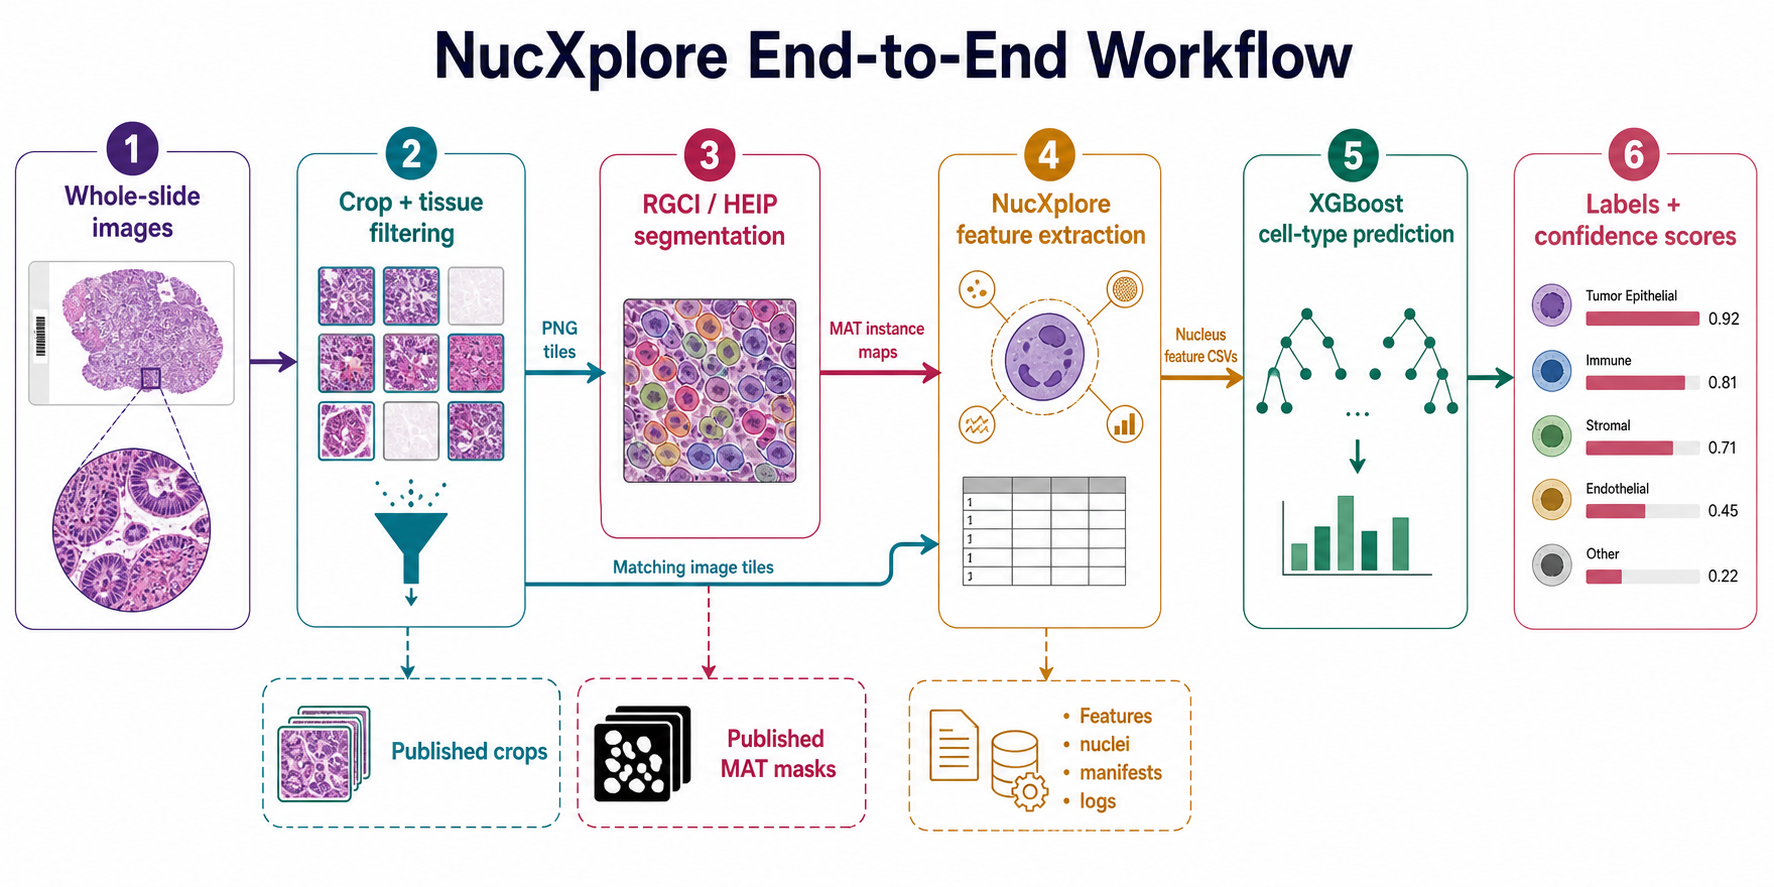
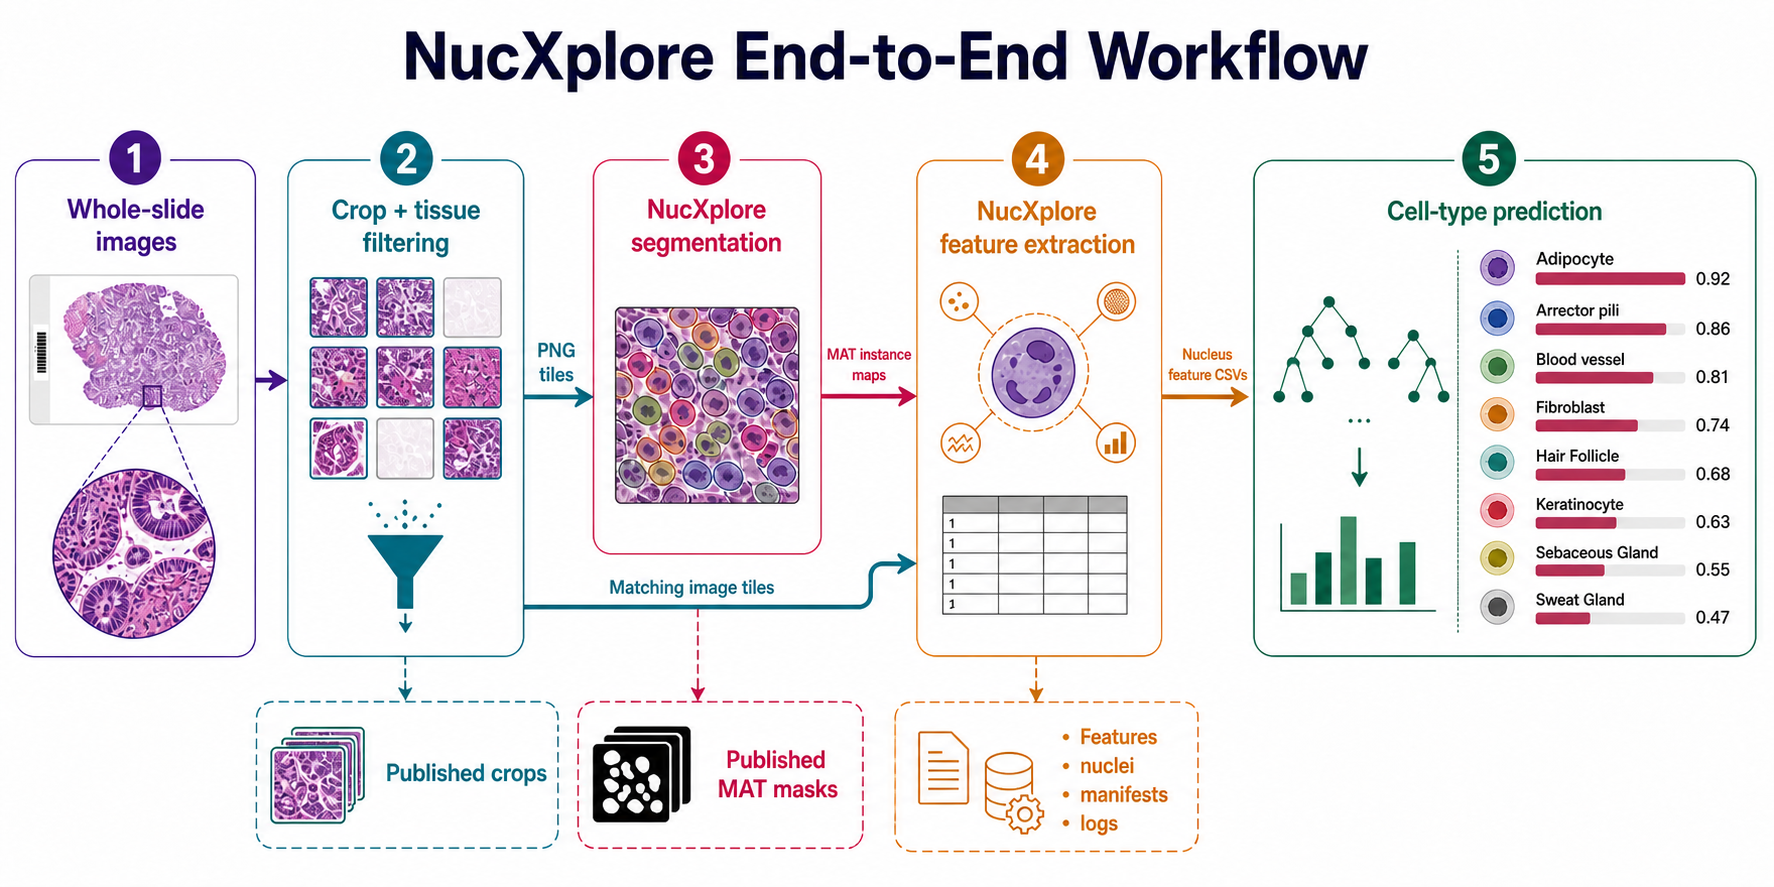
fix(pipeline)!: align names and labels
BREAKING CHANGE: the segmentation executable is now named nucxplore_seg_to_mat.py; update direct container invocations.

diff --git a/nucxplore-pipeline/tests/test_pipeline_contract.py b/nucxplore-pipeline/tests/test_pipeline_contract.py
@@ -66,9 +66,9 @@ def test_crop_and_filter_empty_input_returns_nonzero(tmp_path: Path) -> None:
     assert out_dir.exists()
 
 
-def test_rgci_seg_empty_input_returns_nonzero(tmp_path: Path) -> None:
+def test_nucxplore_seg_empty_input_returns_nonzero(tmp_path: Path) -> None:
     repo = Path(__file__).resolve().parents[1]
-    script = str(repo / "bin" / "rgci_seg_to_mat.py")
+    script = str(repo / "bin" / "nucxplore_seg_to_mat.py")
     empty_crop = tmp_path / "no_crops"
     empty_crop.mkdir()
     out_dir = tmp_path / "seg_out"
@@ -87,9 +87,9 @@ def test_rgci_seg_empty_input_returns_nonzero(tmp_path: Path) -> None:
     assert out_dir.exists()
 
 
-def test_rgci_seg_empty_input_does_not_load_model(tmp_path: Path) -> None:
+def test_nucxplore_seg_empty_input_does_not_load_model(tmp_path: Path) -> None:
     repo = Path(__file__).resolve().parents[1]
-    script = str(repo / "bin" / "rgci_seg_to_mat.py")
+    script = str(repo / "bin" / "nucxplore_seg_to_mat.py")
     empty_crop = tmp_path / "no_crops2"
     empty_crop.mkdir()
     out_dir = tmp_path / "seg_out2"
@@ -112,14 +112,14 @@ def test_rgci_seg_empty_input_does_not_load_model(tmp_path: Path) -> None:
     assert out_dir.exists()
 
 
-def test_rgci_seg_nextflow_gpu_and_cleanup_contract() -> None:
+def test_nucxplore_seg_nextflow_gpu_and_cleanup_contract() -> None:
     repo = Path(__file__).resolve().parents[1]
     main_nf = (repo / "main.nf").read_text()
 
     assert "process NUCXPLORE_SEG" in main_nf
     assert "accelerator request:" in main_nf
     assert "params.seg_device == 'cuda'" in main_nf
-    assert "exec rgci_seg_to_mat.py" in main_nf
+    assert "exec nucxplore_seg_to_mat.py" in main_nf
 
 
 def test_nextflow_cli_boolean_flags_are_parsed_explicitly() -> None:

diff --git a/nucxplore-pipeline/bin/nucxplore_seg_to_mat.py b/nucxplore-pipeline/bin/nucxplore_seg_to_mat.py
@@ -1,8 +1,8 @@
 #!/usr/bin/env python3
-"""RGCI/HEIP segmentation — produce NucXplore-compatible MAT masks from crop tiles.
+"""NucXplore segmentation — produce NucXplore-compatible MAT masks from crop tiles.
 
-Replaces the RGCI_Seg_HEIP.ipynb cells with a deterministic CLI.  Uses the
-HEIP SlidingWindowInferer without save_format so it writes ``inst_map`` and
+Replaces the legacy segmentation notebook cells with a deterministic CLI. Uses
+the HEIP SlidingWindowInferer without save_format so it writes ``inst_map`` and
 ``inst_type`` to .mat files that NucXplore can consume directly.
 """
 
@@ -16,7 +16,7 @@ import time
 from pathlib import Path
 from typing import Any, Dict, List, Optional
 
-logger = logging.getLogger("rgci_seg")
+logger = logging.getLogger("nucxplore_seg")
 
 
 def discover_crop_folders(crop_root: Path) -> List[Path]:
@@ -80,7 +80,7 @@ def run_inference(
     output_root.mkdir(parents=True, exist_ok=True)
 
     manifest: Dict[str, Any] = {
-        "tool": "rgci_seg",
+        "tool": "nucxplore_seg",
         "args": {
             "crop_root": str(crop_root),
             "output_root": str(output_root),
@@ -173,7 +173,7 @@ def run_inference(
 
 def main(argv: Optional[List[str]] = None) -> int:
     parser = argparse.ArgumentParser(
-        description="RGCI/HEIP segmentation — produce NucXplore-compatible MAT masks from crop tiles."
+        description="NucXplore segmentation — produce NucXplore-compatible MAT masks from crop tiles."
     )
     parser.add_argument(
         "--crop-root",

diff --git a/nucxplore-pipeline/tests/test_cell_type_predict.py b/nucxplore-pipeline/tests/test_cell_type_predict.py
@@ -116,10 +116,10 @@ def test_replacement_artifacts_have_expected_contract() -> None:
     ) == 46
     assert list(encoder.classes_) == [
         "Adipocyte",
-        "Arrector Pili",
-        "Blood Vessel",
+        "Arrector pili",
+        "Blood vessel",
         "Fibroblast",
-        "Hair Folicle",
+        "Hair Follicle",
         "Keratinocyte",
         "Sebaceous Gland",
         "Sweat Gland",

diff --git a/nucxplore-pipeline/CHANGELOG.md b/nucxplore-pipeline/CHANGELOG.md
@@ -9,6 +9,13 @@ Use short, telegraphic style:
 
 One entry per task.
 
+## 2026-08-15 — standardize segmentation name and prediction labels
+
+rename segmentation CLI and contracts to NucXplore; correct eight label-encoder class names without changing class order; refresh workflow diagrams
+Files/Modules: segmentation CLI/Dockerfile/Nextflow/tests, prediction encoder/manifest/tests, pipeline docs and diagrams
+Impact: runtime identifiers and output labels match current product terminology and documented prediction classes
+Reason: remove legacy naming and fix capitalization/spelling at the prediction artifact boundary
+
 ## 2026-08-14 — remove obsolete crop-filter image path
 
 stop building unused crop-filter container; remove stale Dockerfile; document two-image runtime, hosted repository, mandatory normalization, current model manifest, and CI gates
@@ -18,10 +25,10 @@ Reason: eliminate dead deployment surface and conflicting operational instructio
 
 ## 2026-08-14 — rename segmentation image
 
-rename segmentation Dockerfile, environment, process, defaults, test placeholders, and image tag from `nucxplore-rgci-seg` to `nucxplore-seg`
+rename segmentation Dockerfile, environment, process, defaults, test placeholders, and image tag to `nucxplore-seg`
 Files/Modules: segmentation Docker assets, Nextflow configuration/workflow, build/run scripts, tests, docs
 Impact: build and run `ahujalab/nucxplore-seg:latest`; old image name is no longer referenced by active configuration
-Reason: use product-level image naming while retaining RGCI/HEIP as implementation detail
+Reason: use product-level image naming while retaining NucXplore as implementation detail
 
 ## 2026-08-14 — replace cell-type prediction artifacts
 
@@ -60,7 +67,7 @@ Reason: per-tile granularity for better parallelism and fault isolation
 
 ## 2026-05-14 — conda env for crop/features, per-slide parallelism, engine profiles
 
-move CROP_AND_FILTER and EXTRACT_FEATURES from Docker to `nucxplore-local` conda env; per-slide parallel crop via `--slide-path`; add `maxForks 1` to RGCI_SEG and PREDICT_CELL_TYPES; replace `conf/docker.config` with `conf/containers.config` for multi-engine support; add apptainer/singularity profiles; remove `crop_filter_container` param
+move CROP_AND_FILTER and EXTRACT_FEATURES from Docker to `nucxplore-local` conda env; per-slide parallel crop via `--slide-path`; add `maxForks 1` to NUCXPLORE_SEG and PREDICT_CELL_TYPES; replace `conf/docker.config` with `conf/containers.config` for multi-engine support; add apptainer/singularity profiles; remove `crop_filter_container` param
 Files/Modules: `environment.yml` (new), `bin/crop_and_filter.py`, `main.nf`, `nextflow.config`, `conf/containers.config` (new), `conf/docker.config` (deleted), `tests/run_stub_pipeline_checks.sh`, `params.example.yaml`, `CHANGELOG.md`
 Impact: users must create `nucxplore-local` conda env; `--crop_filter_container` removed; crop runs locally; `-profile apptainer|singularity` now available
 Reason: large Docker overhead for CPU-only stages; per-slide parallelism improves crop throughput; sequential seg+pred avoids GPU/ML resource contention
@@ -116,7 +123,7 @@ Reason: align Nextflow container names with locally built images and Docker pull
 
 ## 2026-05-08 — fix SEG GPU declaration and cancellation
 
-declare RGCI_SEG accelerator resource and exec segmentation CLI from task script
+declare NUCXPLORE_SEG accelerator resource and exec segmentation CLI from task script
 Files/Modules: `main.nf`, `tests/test_pipeline_contract.py`, `CHANGELOG.md`
 Impact: segmentation-only and crop-to-segmentation pipeline users
 Reason: make CUDA scheduling intent visible to Nextflow and reduce orphaned Python processes after cancellation
@@ -158,8 +165,8 @@ Reason: align all identifiers with current project name without changing extract
 
 ## 2026-05-05 — stabilize local Docker images
 
-pin feature/prediction deps, rebuild crop/filter deps, and switch RGCI/HEIP image to micromamba Python 3.9 env
-Files/Modules: `Dockerfile`, `Dockerfile.crop-filter`, `Dockerfile.rgci-seg`, `envs/rgci-seg.yml`, `conf/docker.config`, `main.nf`, `nextflow.config`, `.dockerignore`, `../.dockerignore`, `../HEIP/HEIP/src/unet.py`
+pin feature/prediction deps, rebuild crop/filter deps, and switch NucXplore image to micromamba Python 3.9 env
+Files/Modules: `Dockerfile`, `Dockerfile.crop-filter`, `Dockerfile.nucxplore-seg`, `envs/nucxplore-seg.yml`, `conf/docker.config`, `main.nf`, `nextflow.config`, `.dockerignore`, `../.dockerignore`, `../HEIP/HEIP/src/unet.py`
 Impact: `nuxplore-cell-type-prediction` Docker users
 Reason: local images now build against compatible Python/PyTorch/cellseg-models versions; segmentation avoids pretrained-weight downloads before checkpoint load; Docker GPU flag is only applied for CUDA segmentation runs; crop recursion is controlled by `--crop_recursive`
 
@@ -184,10 +191,10 @@ Files/Modules: `main.nf` (workflow rewrite, stageIdx helper, removed EXPORT_RESU
 Impact: `nuxplore-cell-type-prediction` users
 Reason: index-based stage comparison fixes lexicographic ordering bug; default `--from_stage crop --to_stage prediction` runs all four stages; standalone prediction-only mode added; intermediate publish controlled via `publish_crops`/`publish_segmentation` flags; all 10 stage-combination stub contracts pass
 
-## 2026-05-04 — add RGCI/HEIP segmentation stage
+## 2026-05-04 — add NucXplore segmentation stage
 
 add CUDA segmentation stage producing NuXplore-compatible MAT masks from crop tiles
-Files/Modules: `bin/rgci_seg_to_mat.py`, `Dockerfile.rgci-seg`, `main.nf` (RGCI_SEG process, stageIdx helper, container validation), `conf/docker.config` (--gpus all for segmentation), `tests/run_stub_pipeline_checks.sh`
+Files/Modules: `bin/nucxplore_seg_to_mat.py`, `Dockerfile.nucxplore-seg`, `main.nf` (NUCXPLORE_SEG process, stageIdx helper, container validation), `conf/docker.config` (--gpus all for segmentation), `tests/run_stub_pipeline_checks.sh`
 Impact: `nuxplore-cell-type-prediction` users
 Reason: replace notebook-based HEIP inference with deterministic CLI; default MAT output (no JSON→MAT conversion needed); `inst_map`+`inst_type` keys match NuXplore expectations; runs standalone `--from_stage segmentation --to_stage segmentation` or downstream of crop; CUDA guard via dedicated container with `--gpus all`
 

diff --git a/CHANGELOG.md b/CHANGELOG.md
@@ -9,6 +9,13 @@ Use short, telegraphic style:
 
 One entry per task.
 
+## 2026-08-15 — unify segmentation and prediction terminology
+
+rename legacy segmentation CLI and documentation to NucXplore; correct bundled encoder labels; merge prediction and scored-label output in workflow visuals
+Files/Modules: pipeline segmentation CLI/container/tests, model encoder and manifest, READMEs/wiki, workflow diagrams
+Impact: code, documentation, artifacts, and diagrams now use NucXplore naming and the exact eight-class prediction contract
+Reason: remove legacy implementation branding and align displayed labels with production prediction output
+
 ## 2026-08-14 — clean repository and synchronize documentation
 
 remove generated build/work/cache outputs and obsolete crop-filter container path; refresh root, package, pipeline, wiki, contributor, model, installation, validation, and release documentation
@@ -18,7 +25,7 @@ Reason: make repository easier to install, validate, review, and release without
 
 ## 2026-08-14 — rename segmentation image
 
-rename segmentation container from `nucxplore-rgci-seg` to `nucxplore-seg`; synchronize Dockerfile, environment, process, defaults, tests, scripts, and docs
+rename segmentation container to `nucxplore-seg`; synchronize Dockerfile, environment, process, defaults, tests, scripts, and docs
 Files/Modules: `nucxplore-pipeline/`, root and wiki documentation
 Impact: production commands and defaults now use `ahujalab/nucxplore-seg:latest`
 Reason: align container branding with NucXplore pipeline ownership
@@ -196,7 +203,7 @@ Reason: Nextflow Docker runs should reference the same local tags built by helpe
 
 declare SEG accelerator resource, run segmentation CLI with exec, and cover contract in tests
 Files/Modules: `nucxplore-pipeline/main.nf`, `nucxplore-pipeline/tests/test_pipeline_contract.py`, `nucxplore-pipeline/CHANGELOG.md`, `PLAN.md`
-Impact: pipeline users running RGCI/HEIP segmentation
+Impact: pipeline users running NucXplore segmentation
 Reason: make CUDA SEG intent explicit and prevent orphaned Python inference after Nextflow cancellation
 
 ## 2026-05-08 — simplify local Docker Nextflow execution
@@ -209,7 +216,7 @@ Reason: avoid unpublished PyPI dependency for featurizer and make Nextflow micro
 ## 2026-05-08 — fix review follow-up gaps
 
 format MAT parser tests, create direct CLI output/log parents, label superseded historical plans
-Files/Modules: `nucxplore/src/io/mat.rs`, `nucxplore-pipeline/bin/crop_and_filter.py`, `nucxplore-pipeline/bin/rgci_seg_to_mat.py`, `plans/cell-type-prediction-nextflow.md`, `plans/documentation-split-cleanup.md`
+Files/Modules: `nucxplore/src/io/mat.rs`, `nucxplore-pipeline/bin/crop_and_filter.py`, `nucxplore-pipeline/bin/nucxplore_seg_to_mat.py`, `plans/cell-type-prediction-nextflow.md`, `plans/documentation-split-cleanup.md`
 Impact: package CI, direct pipeline CLI users, contributors reading plans
 Reason: complete review findings after validating codebase against active consolidation plans
 
@@ -222,10 +229,10 @@ Reason: bare import nucxplore failed without numpy due to top-level batch import
 
 ## 2026-05-07 — fix pipeline runtime failures: empty inputs, required outputs, Docker build (milestone 3 of consolidation-review-follow-up)
 
-fix empty-input handling in crop/seg scripts, make optional Nextflow outputs truly optional, fix rgci-seg Docker build
-Files/Modules: `nucxplore-pipeline/Dockerfile.rgci-seg`, `nucxplore-pipeline/main.nf`, `nucxplore-pipeline/bin/crop_and_filter.py`, `nucxplore-pipeline/bin/rgci_seg_to_mat.py`, `nucxplore-pipeline/tests/test_pipeline_contract.py`
+fix empty-input handling in crop/seg scripts, make optional Nextflow outputs truly optional, fix nucxplore-seg Docker build
+Files/Modules: `nucxplore-pipeline/Dockerfile.nucxplore-seg`, `nucxplore-pipeline/main.nf`, `nucxplore-pipeline/bin/crop_and_filter.py`, `nucxplore-pipeline/bin/nucxplore_seg_to_mat.py`, `nucxplore-pipeline/tests/test_pipeline_contract.py`
 Impact: pipeline users, Docker image maintainers
-Reason: empty crop/seg input returned success then failed downstream; nuclei/predictions/** outputs were required even when validly absent; Dockerfile.rgci-seg copied checkpoint into missing directory
+Reason: empty crop/seg input returned success then failed downstream; nuclei/predictions/** outputs were required even when validly absent; Dockerfile.nucxplore-seg copied checkpoint into missing directory
 
 ## 2026-05-07 — align pipeline docs, container placeholders, and Dockerfile install mode (milestone 2 of consolidation-review-follow-up)
 

diff --git a/wiki/Pipeline-User-Guide.md b/wiki/Pipeline-User-Guide.md
@@ -1,13 +1,13 @@
 # Pipeline User Guide
 
-The NucXplore pipeline is a Nextflow workflow for whole-slide crop/filtering, RGCI/HEIP segmentation, NucXplore feature extraction, and XGBoost cell-type prediction.
+The NucXplore pipeline is a Nextflow workflow for whole-slide crop/filtering, NucXplore segmentation, NucXplore feature extraction, and XGBoost cell-type prediction.
 
 ## Stages
 
 | Stage | `--stage` value | Execution | Purpose |
 |---|---|---|---|
 | Crop/filter | `crop` | Conda, parallel per slide | Tile whole-slide images and remove blank or partial tiles. |
-| RGCI/HEIP segmentation | `segmentation` | Container, sequential | Segment nuclei from crop tiles and write MAT masks. |
+| NucXplore segmentation | `segmentation` | Container, sequential | Segment nuclei from crop tiles and write MAT masks. |
 | NucXplore features | `features` | Conda, parallel per image | Extract nucleus-level feature CSVs and optional crops. |
 | Cell-type prediction | `prediction` | Container, sequential | Apply the bundled XGBoost model and label encoder. |
 
@@ -32,7 +32,7 @@ The default run is `crop` through `prediction`. Stage ranges must be contiguous.
 | Conda environment `nucxplore-local` | Required for crop/filter and featurizer stages. |
 | Container engine | Docker (default), Apptainer, or Singularity for containerized stages. |
 | CUDA runtime | Required only when segmentation uses `seg_device=cuda`. |
-| Segmentation image | `--seg_container` must be a valid image with RGCI/HEIP. |
+| Segmentation image | `--seg_container` must be a valid image with NucXplore. |
 | Prediction image | `--container` must be a valid image with XGBoost model + encoder. |
 
 ## Conda Environment Setup

diff --git a/wiki/Architecture.md b/wiki/Architecture.md
@@ -75,7 +75,7 @@ Patch-derived features are emitted with `pre_norm_` and `post_norm_` prefixes. M
 | Process | Compute and container boundary | Primary outputs |
 |---|---|---|
 | `CROP_AND_FILTER` | `crop_filter_container`; reads WSI formats with `tiffslide`, creates fixed-size tiles, and removes blank or partial tiles. | `crops/`, `crop_manifest.json`, `crop.log` |
-| `RGCI_SEG` | `seg_container`; loads the baked HEIP checkpoint and requests a GPU when `seg_device=cuda`, with runtime CPU fallback if CUDA is unavailable. | `segmentation_mats/`, `segmentation_manifest.json`, `segment.log` |
+| `NUCXPLORE_SEG` | `seg_container`; loads the baked HEIP checkpoint and requests a GPU when `seg_device=cuda`, with runtime CPU fallback if CUDA is unavailable. | `segmentation_mats/`, `segmentation_manifest.json`, `segment.log` |
 | `PREPARE_SAMPLESHEET` | Nextflow task using the repository helper; validates required columns, uniqueness, and file existence, then stages symlinks. | Prepared image/MAT roots and `prepare_inputs_manifest.json` |
 | `EXTRACT_FEATURES` | Shared feature/prediction container; runs the NucXplore batch CLI with configured workers, normalization, GPU, and crop flags. | `features/`, optional `nuclei/`, `extract.log` |
 | `PREDICT_CELL_TYPES` | Shared feature/prediction container; loads the baked XGBoost model and label encoder and requires the model feature schema. | `predictions/`, `manifest.json`, `manifest.csv`, `predict.log` |

diff --git a/README.md b/README.md
@@ -19,7 +19,7 @@ package and a four-stage Nextflow pipeline.
 | Component | Purpose |
 |---|---|
 | [`nucxplore/`](nucxplore/) | Fast feature extraction from RGB tiles and MATLAB instance maps. |
-| [`nucxplore-pipeline/`](nucxplore-pipeline/) | WSI crop/filter, RGCI/HEIP segmentation, feature extraction, and XGBoost prediction. |
+| [`nucxplore-pipeline/`](nucxplore-pipeline/) | WSI crop/filter, NucXplore segmentation, feature extraction, and cell-type prediction. |
 | [`wiki/`](wiki/) | Detailed usage, parameters, containers, validation, and maintenance. |
 
 Current package and pipeline version: **0.3.0**. Python 3.10 or newer is
@@ -95,8 +95,10 @@ ahujalab/nucxplore-cell-type-prediction:latest
 ```
 
 The prediction image contains the 129-feature XGBoost model and matching label
-encoder supplied in `WSI_Sample_Adnan`. Artifact hashes and the eight-label
-contract are recorded in
+encoder supplied in `WSI_Sample_Adnan`. It produces one of eight labels:
+`Adipocyte`, `Arrector pili`, `Blood vessel`, `Fibroblast`, `Hair Follicle`,
+`Keratinocyte`, `Sebaceous Gland`, or `Sweat Gland`. Artifact hashes and this
+label contract are recorded in
 [`model_manifest.json`](nucxplore-pipeline/models/model_manifest.json).
 
 ## Pipeline Outputs

diff --git a/wiki/Docker-and-Validation.md b/wiki/Docker-and-Validation.md
@@ -7,7 +7,7 @@ This page describes the container image contract and validation assets used by t
 | Stage | Parameter | Default tag | Execution |
 |---|---|---|---|
 | Crop/filter | — | — | Conda environment `nucxplore-local` (no container). |
-| Segmentation | `seg_container` | `ahujalab/nucxplore-seg:latest` | Container (Docker/Apptainer/Singularity). Contains CUDA PyTorch, HEIP/RGCI code, `cellseg-models-pytorch`, `last.ckpt`. |
+| Segmentation | `seg_container` | `ahujalab/nucxplore-seg:latest` | Container (Docker/Apptainer/Singularity). Contains CUDA PyTorch, NucXplore code, `cellseg-models-pytorch`, `last.ckpt`. |
 | Features | — | — | Conda environment `nucxplore-local` (no container). |
 | Prediction | `container` | `ahujalab/nucxplore-cell-type-prediction:latest` | Container. Contains NucXplore wheel, pandas, XGBoost, model and encoder artifacts. |
 

diff --git a/nucxplore-pipeline/docs/developer-guide.md b/nucxplore-pipeline/docs/developer-guide.md
@@ -13,7 +13,7 @@ Contributor guide for the Nextflow pipeline. Detailed maintenance notes live in 
 | `bin/crop_and_filter.py` | WSI tiling/filtering CLI. |
 | `bin/discover_pairs.py` | Matches (tile.png, tile.mat) pairs from crop and MAT roots. |
 | `bin/extract_single_tile.py` | Single-tile featurizer CLI. |
-| `bin/rgci_seg_to_mat.py` | RGCI/HEIP MAT-mask segmentation CLI. |
+| `bin/nucxplore_seg_to_mat.py` | NucXplore MAT-mask segmentation CLI. |
 | `bin/samplesheet_to_pairs.py` | Samplesheet validation and staging. |
 | `bin/cell_type_predict.py` | XGBoost prediction CLI. |
 | `tests/` | Stub contract and Python tests. |

diff --git a/nucxplore/docs/user-guide.md b/nucxplore/docs/user-guide.md
@@ -108,4 +108,4 @@ Run `nx.check_gpu()` to check adapter availability.
 
 ## Pipeline Users
 
-For whole-slide crop/filtering, RGCI/HEIP segmentation, NucXplore extraction, and XGBoost prediction, use [`../../nucxplore-pipeline/`](../../nucxplore-pipeline/).
+For whole-slide crop/filtering, NucXplore segmentation, NucXplore extraction, and XGBoost prediction, use [`../../nucxplore-pipeline/`](../../nucxplore-pipeline/).

diff --git a/nucxplore-pipeline/README.md b/nucxplore-pipeline/README.md
@@ -1,6 +1,6 @@
 # NucXplore Pipeline
 
-Nextflow DSL2 workflow for whole-slide crop/filtering, RGCI/HEIP nucleus
+Nextflow DSL2 workflow for whole-slide crop/filtering, NucXplore nucleus
 segmentation, NucXplore feature extraction, and XGBoost cell-type prediction.
 
 ## Execution model
